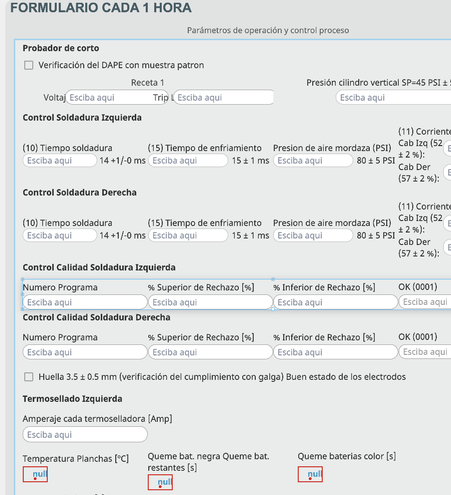
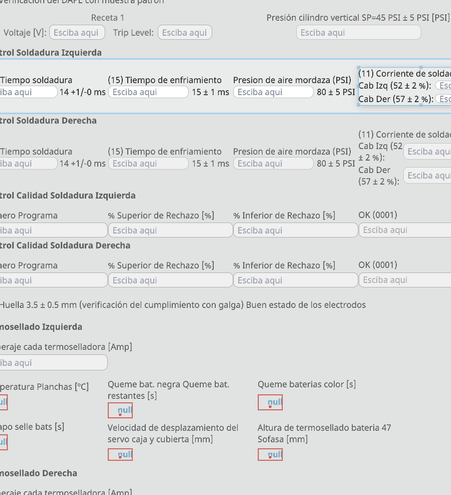
fix: sin anchos fijos en el diseño estándar PAPO
- papo-design v1.1.0: la clase dropdown no deja width 250px; en celdas en
  columna que no estiran el campo usa width 100%
- Piloto EA11-0901_1h: quitados los 250px (17 campos y Observaciones),
  conservando los ajustes de layout hechos en el Designer
- Recolección igual: 68 ítems en el mismo orden

Changed region(s): [[0.0, 0.0, 1.0, 1.0]]

diff --git a/.claude/skills/papo-design/scripts/papo_design.py b/.claude/skills/papo-design/scripts/papo_design.py
@@ -8,10 +8,12 @@ binding (propConfig), the component tree and the order of components stay
 identical, so papo_core.register.recopile collects the same items in the same
 order (SAT "Procedimiento de estandarizacion v2"). Dry run by default.
 
-Version: 1.0.0
+Version: 1.1.0
 
 Changelog:
 	2026-10-24 | William M. | v1.0.0 - Initial version (EA11-0901_1h pilot)
+	2026-10-24 | William M. | v1.1.0 - No fixed width from the old dropdown class; fields fill
+		non-stretching column cells (width 100%)
 
 Args (CLI):
 	--views (str...): View folders or view.json paths
@@ -122,7 +124,7 @@ def _sameValue(value, allowed):
 	return any(value == a and type(value) == type(a) for a in allowed)
 
 
-def _applyClass(component, targetClass, stats, role):
+def _applyClass(component, parent, targetClass, stats, role):
 	"""Point the component style at targetClass and drop the inline keys the class already defines."""
 	if "props.style.classes" in component.get("propConfig", {}):
 		stats["skip: clases con binding"][role] += 1
@@ -135,12 +137,16 @@ def _applyClass(component, targetClass, stats, role):
 		stats["ya estándar"][role] += 1
 		return False
 
-	# Old classes are replaced; the layout they carried stays inline
+	# Old classes are replaced. A class that carried a fixed width leaves none behind: in a row the
+	# field's basis sets the width; in a column that does not stretch, the field fills the cell
+	parentProps = (parent or {}).get("props", {})
+	inColumn = parentProps.get("direction") == "column"
+	stretches = parentProps.get("alignItems", "stretch") == "stretch"
 	kept = []
 	for token in tokens:
 		if token in RULES["replacedClasses"]:
-			for key, value in RULES["replacedClasses"][token].items():
-				style.setdefault(key, value)
+			if RULES["replacedClasses"][token].get("carriedWidth") and inColumn and not stretches:
+				style.setdefault("width", RULES["columnFillWidth"])
 		else:
 			kept.append(token)
 
@@ -182,20 +188,20 @@ def standardize(root, stats):
 	"""Apply the design rules to every component of the view tree."""
 	insights = RULES["insightsField"]
 
-	def walk(component, isRootChild):
+	def walk(component, parent):
 		ctype = component.get("type", "")
 		name = component.get("meta", {}).get("name", "")
 		custom = component.get("custom", {})
 		if "item" in custom and ctype in RULES["fieldClasses"]:
-			_applyClass(component, RULES["fieldClasses"][ctype], stats, ctype.split(".")[-1])
-		elif isRootChild and ctype == insights["type"] and name == insights["name"]:
-			_applyClass(component, insights["class"], stats, "observaciones")
+			_applyClass(component, parent, RULES["fieldClasses"][ctype], stats, ctype.split(".")[-1])
+		elif parent is root and ctype == insights["type"] and name == insights["name"]:
+			_applyClass(component, parent, insights["class"], stats, "observaciones")
 		elif ctype == "ia.display.label" and RULES["titles"]["class"] in str((component.get("props", {}).get("style") or {}).get("classes", "")).split():
 			_applyTitle(component, stats)
 		for child in component.get("children", []):
-			walk(child, component is root)
+			walk(child, component)
 
-	walk(root, False)
+	walk(root, None)
 
 
 # ==================== MAIN ====================

diff --git a/.claude/docs/DEPLOY_INVENTORY.md b/.claude/docs/DEPLOY_INVENTORY.md
@@ -32,7 +32,7 @@ Backups en `.claude/backups/<fecha>/` con la misma ruta relativa que el archivo 
 | 2026-10-22 | bug: ciclos y Día Actual en Gestion | `Page/Gestion` | Día Actual / Día Anterior (`custom.startTime`, `custom.endTime`) con la regla del día de producción (empieza a las 22:00): antes, entre 00:00 y 05:59 arrancaban un día antes y desde las 22:00 no tomaban el nuevo día. Misma lógica que `Page/Gestion Gerencia`. | Sí: elegir Día Actual y Día Anterior y revisar Inicio/Fin. |
 | 2026-10-24 | piloto objetos estándar EA11-0901_1h (revertido) | `papo_core.items`, `papo_core.register`, `Objects/*` | Primer intento con las vistas `Objects/*` embebidas en el piloto: revertido el mismo día, los recursos quedaron como antes. **No desplegar nada de esa versión.** | No. |
 | 2026-10-24 | diseño estándar (piloto EA11-0901_1h) | Clases de estilo `PAPO/Field/Input`, `PAPO/Field/Dropdown`, `PAPO/Field/Checkbox`, `PAPO/Field/TagValue` (nuevas, desplegar primero) | Diseño por rol de campo: inputs y dropdowns con bordes 10 px, fondo `--cla-page-bg`, 17 px, margen 0; valor de tag Arial 16 px negrita centrado `#1199C7` con sangría 20 px; Checkbox vacía. Reemplazan las clases `Objects/*` del primer intento (borradas, no desplegar). | Sí: en el piloto. |
-| 2026-10-24 | diseño estándar (piloto EA11-0901_1h) | `Page/Embedded/Ensamble/Form_EA11-0901_1h_PruebaPiloto` (vista nueva) | Copia de `Form_EA11-0901_1h` con papo-design aplicado: solo cambia `props.style` de 69 componentes (27 numéricos, 2 text fields, 13 checkbox, 26 valores de tag, Observaciones). `width: 250px` donde venía de `dropdown`. Mismo `custom.item`, mismos bindings y misma recolección (68 ítems en el mismo orden). | Sí: comparar con `Form_EA11-0901_1h`; los inputs que tenían la clase `dropdown` pasan de bordes 15 a 10 px. |
+| 2026-10-24 | diseño estándar (piloto EA11-0901_1h) | `Page/Embedded/Ensamble/Form_EA11-0901_1h_PruebaPiloto` (vista nueva) | Copia de `Form_EA11-0901_1h` con papo-design aplicado: solo cambia `props.style` de 69 componentes (27 numéricos, 2 text fields, 13 checkbox, 26 valores de tag, Observaciones). Sin anchos fijos: el `250px` de la clase `dropdown` no se conserva; en celdas en columna que no estiran el campo lleva `width: 100%` (16 campos). Incluye los ajustes de layout hechos en el Designer (basis en % y grow en la fila de soldadura). Mismo `custom.item`, mismos bindings y misma recolección (68 ítems en el mismo orden). | Sí: comparar con `Form_EA11-0901_1h`; los inputs que tenían la clase `dropdown` pasan de bordes 15 a 10 px y ocupan el ancho de su celda. |
 
 ## Pendientes del plan (ronda 3)
 

diff --git a/.claude/docs/ESTANDAR_DISENO.md b/.claude/docs/ESTANDAR_DISENO.md
@@ -41,7 +41,7 @@ La recolección de respuestas no cambia. Sigue igual el flujo del "Procedimiento
 
 Títulos con la clase `text-titles`: el color `#002C36` escrito en el campo pasa al token `--cla-text-question` (mismo color, ahora sale del tema).
 
-Qué se queda en la vista: `position`, `width` (los campos que lo tomaban de `dropdown` conservan `250px`), márgenes y paddings entre campos, y todos los bindings. El valor estático de una propiedad que su propio binding sobrescribe se quita (no tiene efecto).
+Qué se queda en la vista: `position`, márgenes y paddings entre campos, y todos los bindings. Sin anchos fijos: en una fila el ancho lo da el `basis` del campo; en una columna que estira, el campo ocupa la celda; en una columna alineada al inicio o al centro, el campo lleva `width: 100%` para ocupar la celda (79 campos en todo el proyecto). El `width: 250px` que daba la clase `dropdown` no se conserva. El valor estático de una propiedad que su propio binding sobrescribe se quita (no tiene efecto).
 
 ## Herramienta: papo-design
 
@@ -54,7 +54,7 @@ Garantías en cada vista (si alguna falla, la vista no se escribe):
 - Solo reescribe vistas cuya serialización Gson es canónica, y conserva CRLF
 - Backup antes de escribir y relectura después
 
-Simulación sobre las 239 vistas (2026-10-24): 238 aplicables, 5,902 componentes (2,248 checkbox, 1,730 text field, 647 numéricos, 611 labels de tag, 244 títulos, 238 Observaciones, 158 dropdowns, 26 date-time), todas con la recolección idéntica. Rechazada: `FU10-0202_start` (JSON no canónico). Quedan en el campo, para revisar a mano: 37 numéricos con un color fijo sin binding y 11 casos aislados (bordes o colores de un checkbox, `textAlign` de 3 labels).
+Simulación sobre las 239 vistas (2026-10-24): 238 aplicables, 5,902 componentes (2,248 checkbox, 1,730 text field, 647 numéricos, 611 labels de tag, 244 títulos, 238 Observaciones, 158 dropdowns, 26 date-time), todas con la recolección idéntica. Rechazada: `FU10-0202_start` (JSON no canónico). Además, 79 campos en columnas que no estiran reciben `width: 100%`. Quedan en el campo, para revisar a mano: 37 numéricos con un color fijo sin binding y 11 casos aislados (bordes o colores de un checkbox, `textAlign` de 3 labels).
 
 Medición: papo-lint (v1.1.0) reporta `Form_*: campos sin clase de diseño PAPO/Field/*`. Línea base: 188 vistas (el piloto ya en 0).
 

diff --git a/.claude/skills/papo-design/SKILL.md b/.claude/skills/papo-design/SKILL.md
@@ -33,7 +33,7 @@ python3 .claude/skills/papo-design/scripts/papo_design.py --views "Page/Embedded
 
 ## Reglas
 
-`scripts/rules.json`: tipo de componente → clase, clases viejas que se reemplazan (y el layout que dejan en el campo, p. ej. `dropdown` → `width: 250px`), valores que la clase ya define (se quitan del campo solo si coinciden) y colores de títulos que pasan a tokens. Los estáticos que su propio binding sobrescribe se quitan.
+`scripts/rules.json`: tipo de componente → clase, clases viejas que se reemplazan (sin dejar anchos fijos: la de `dropdown` traía 250 px; en columnas que no estiran el campo queda con `width: 100%`), valores que la clase ya define (se quitan del campo solo si coinciden) y colores de títulos que pasan a tokens. Los estáticos que su propio binding sobrescribe se quitan.
 
 ## Después de aplicar
 
